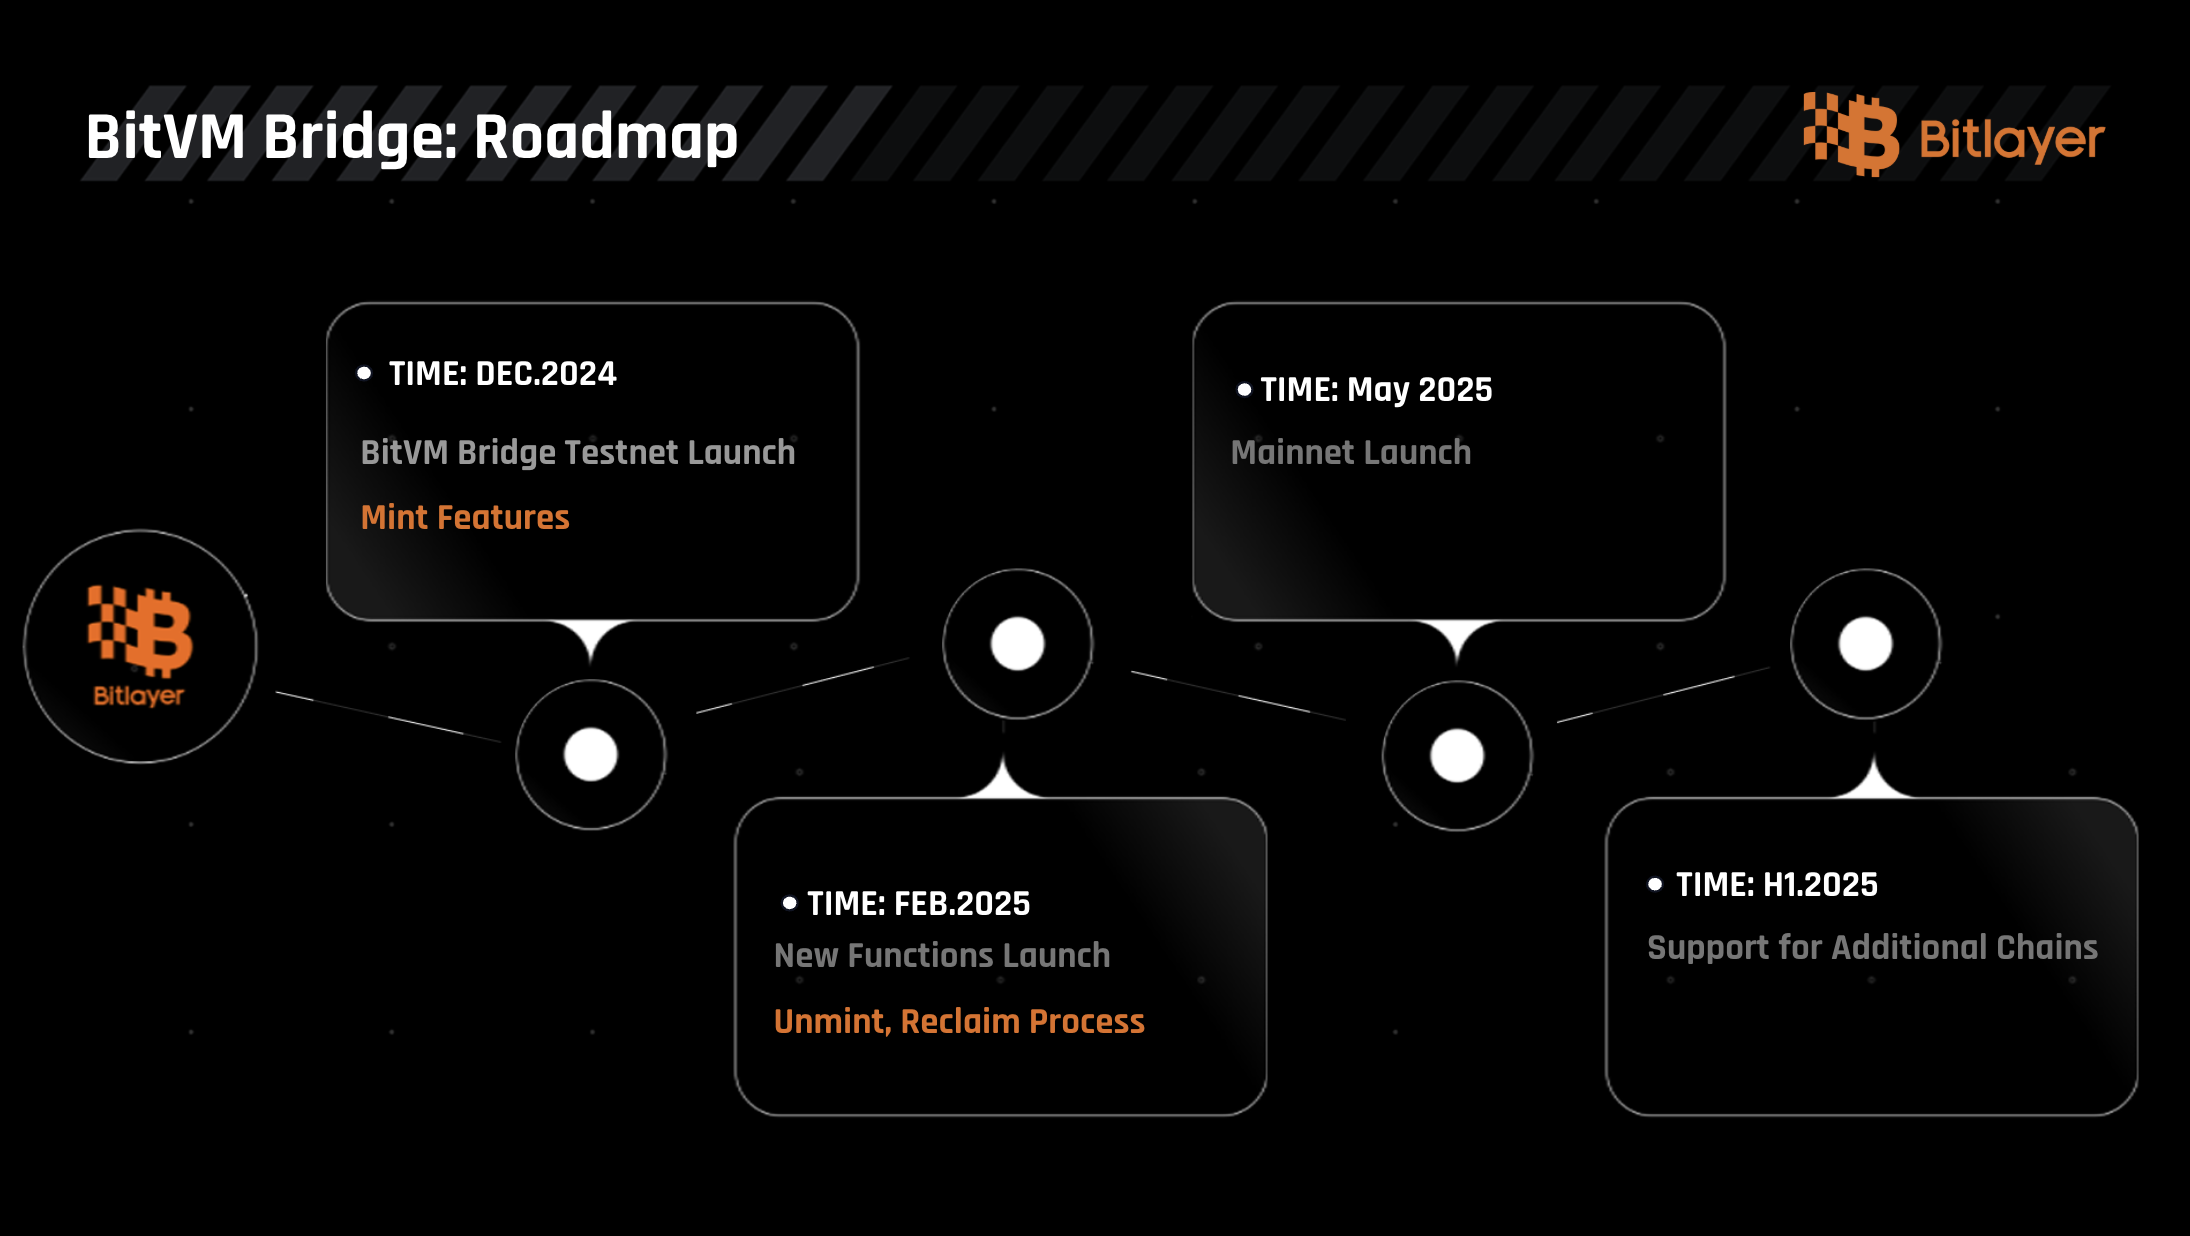
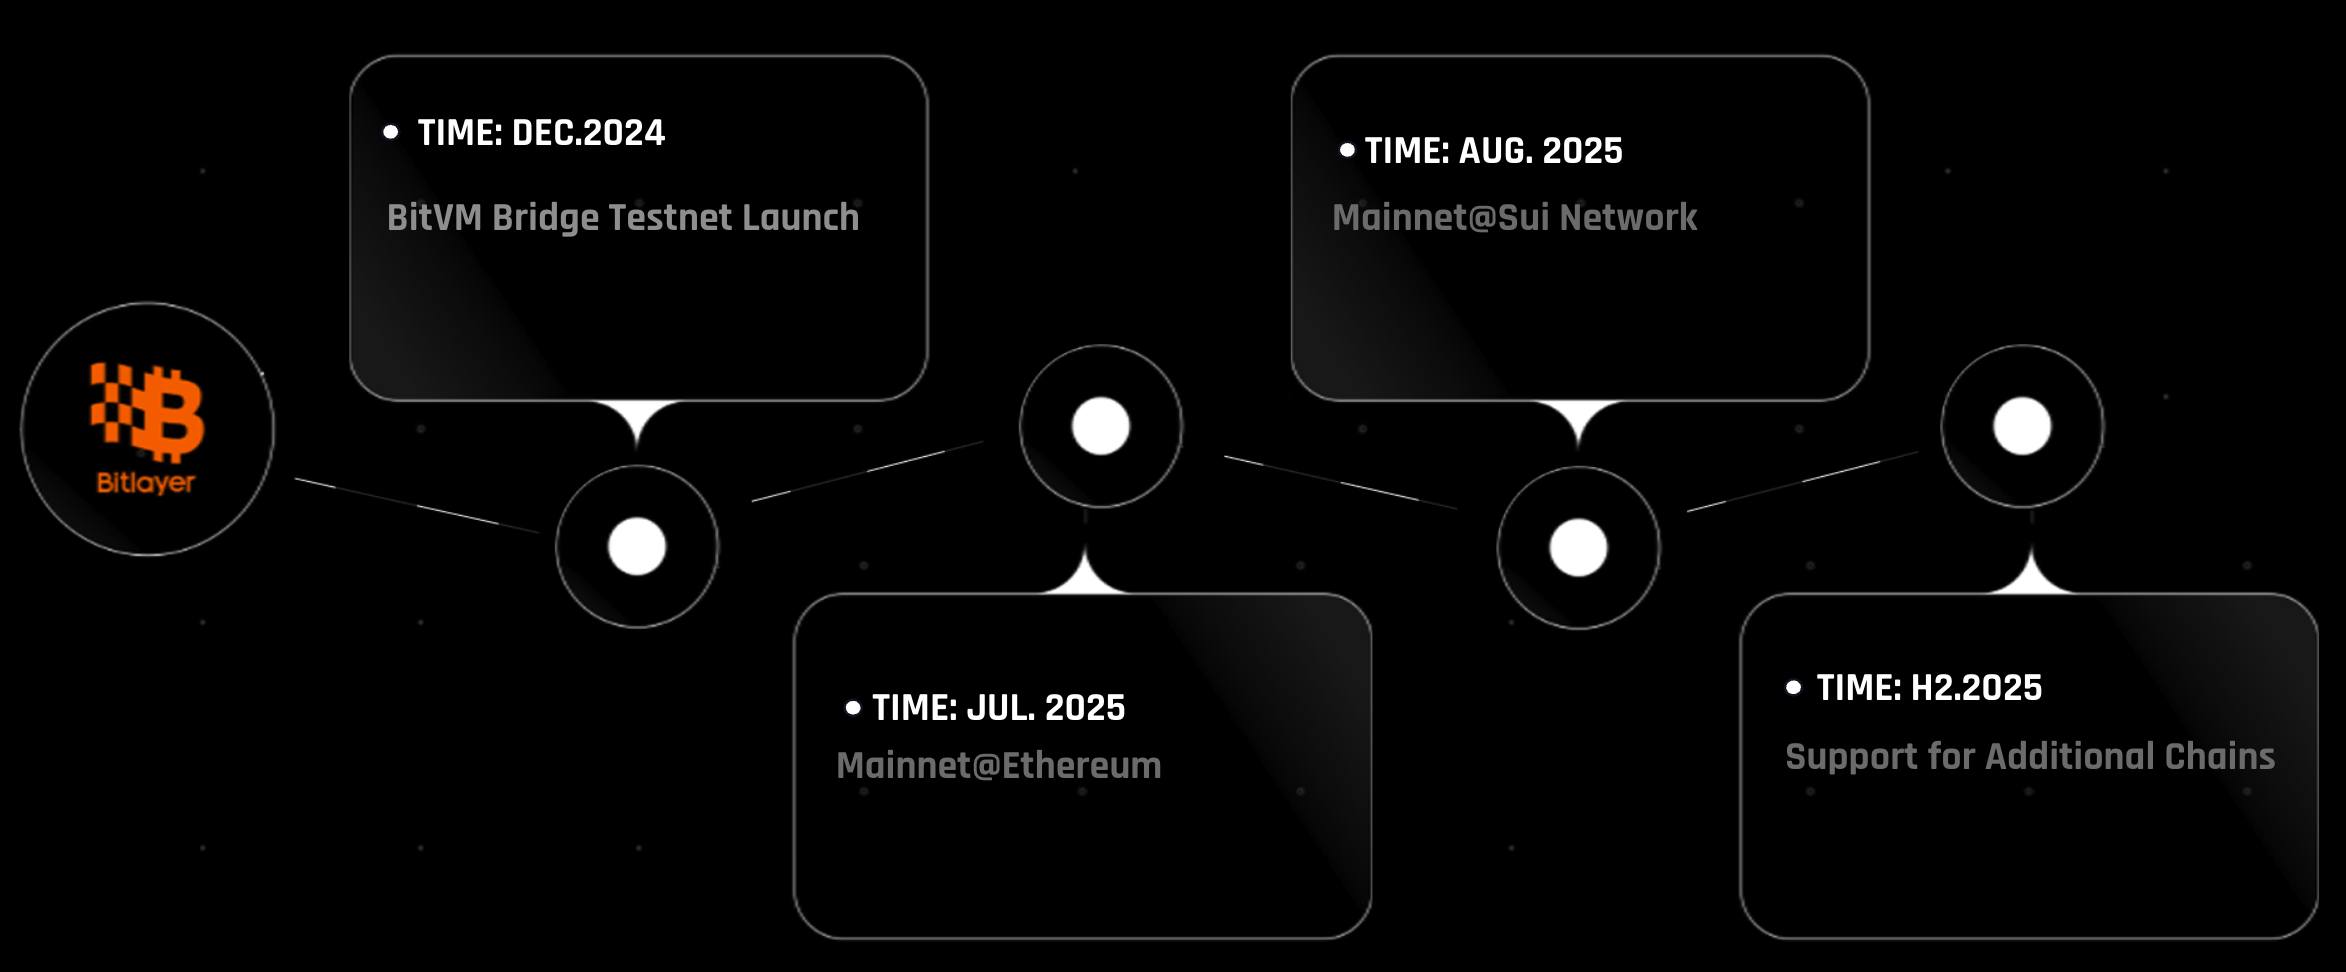
move YBTC introduction

diff --git a/docs/YBTCFamily/YBTC/introducing-ybtc.md b/docs/YBTCFamily/YBTC/introducing-ybtc.md
@@ -1,0 +1,40 @@
+---
+sidebar_position: 1
+---
+
+# Introducing YBTC
+
+YBTC is a trust-minimized bridged Bitcoin engineered for maximum security, serving as the core asset in Bitlayer's Bitcoin DeFi roadmap.
+
+- **Trust-Minimized Minting**: YBTC can only be minted through the official [Bitlayer BitVM Bridge](https://bitvmbridge.bitlayer.org/home). This bridge is built on the BitVM2 paradigm, inheriting its trust-minimized properties.
+- **Native Multi-Chain Asset**: Leveraging the bridge's advanced architecture, YBTC is designed as a multi-chain asset. Support begins with Ethereum and will expand to other blockchains, including:
+  - **Layer 1s**: Cardano, Sui, Plume, Sonic, Solana, and more.
+  - **Layer 2s**: Bitlayer Network, Base, Arbitrum, Starknet, and others.
+- **DeFi Ready**: As an ERC-20 compliant token, YBTC integrates seamlessly into the vast ecosystem of decentralized applications (DeFi).
+
+![YBTC](/img/BitvmBridge/introduction/yield.png)
+
+## The Security of YBTC
+
+YBTC’s design establishes it as one of the most secure bridged Bitcoin assets available. Its integrity is not based on trusting a centralized custodian but on a verifiable, trust-minimized system.
+
+The underlying BTC is locked in a BitVM-style smart contract on the Bitcoin network. The rules for withdrawal are predefined within a pre-signed transaction graph, making the process transparent and predictable. This system is secured by a set of attesters, and thanks to the cryptographic design, collusion to steal the locked BTC is prevented as long as at least one attester remains honest.
+
+This robust mechanism maintains a **strict 1:1 peg with BTC**. A unit of BTC can only be withdrawn from the smart contract after a corresponding YBTC token has been burned on its respective chain, guaranteeing that every YBTC in circulation is fully backed.
+
+## YBTC for Users
+
+Bitlayer and its partners are building a robust, YBTC-centric yield market. YBTC holders can participate in a variety of DeFi applications to generate returns on their Bitcoin:
+
+- **Lending**: Use YBTC as collateral in lending protocols to borrow assets or earn interest.
+- **Decentralized Exchanges (DEXs)**: Provide liquidity or trade YBTC efficiently across decentralized markets.
+- **Staking**: Stake YBTC in supported protocols to earn rewards and contribute to network security.
+
+## YBTC for Applications
+
+YBTC offers significant advantages for developers and protocols building on-chain applications:
+
+1. **Reliable BTC Liquidity**: For applications that require dependable BTC liquidity without the counterparty risk or potential for de-pegging, YBTC is the ideal choice.
+2. **Multi-Chain Access**: By integrating YBTC, applications—especially those operating across multiple chains—can seamlessly tap into deep, multi-chain BTC liquidity from a single, secure asset.
+
+For more information or to connect with our team, join the official Bitlayer Telegram channel: [https://t.me/bitlayerofficial](https://t.me/bitlayerofficial)

diff --git a/docs/BitVMBridge/BBN/002-joining-bbn.md b/docs/BitVMBridge/BBN/002-joining-bbn.md
@@ -17,9 +17,9 @@ If you’re interested in getting involved, feel free to contact us via email at
 The BitVM Bridge Broker role can appeal to various entities for different purposes. Below are some examples of how participants might engage as Brokers:
 
 - Type 1: Providing Liquidity Services to End Users
-     You might operate as a Broker to generate revenue by servicing the peg-out requests of end-users and charging transaction fees.
+    You might operate as a Broker to generate revenue by servicing the peg-out requests of end-users and charging transaction fees.
 - Type 2: Supporting Your Business Operations
-     You might operate as a Broker if you run a business (such as DeFi protocols or other services) that integrates YBTC (a highly secure bridged BTC asset) and you require the BitVM Bridge to balance your BTC/YBTC positions. The flexible peg-out feature of the Bitlayer BitVM Bridge allows participants with such needs to achieve this cost-effectively.
+    You might operate as a Broker if you run a business (such as DeFi protocols or other services) that integrates YBTC and you require the BitVM Bridge to balance your BTC/YBTC positions. The flexible peg-out feature of the Bitlayer BitVM Bridge allows participants with such needs to achieve this cost-effectively.
 
 Regardless of the specific motivation, all prospective Brokers must meet the following requirements:
 
@@ -31,13 +31,13 @@ Regardless of the specific motivation, all prospective Brokers must meet the fol
 
 2. Long-Term Collateral:
 
-     All brokers are required to provide long-term liquidity as collateral. A minimum of 0.5 BTC is necessary to participate in a single bridge instance.
+     All brokers are required to provide long-term liquidity as collateral. A certain amount (denoted as `minimum_collateral_per_reclaim`) of BTC is necessary to participate in a single bridge instance.
 
      Note: This collateral will be refunded once the corresponding bridge funds are reclaimed. The duration for this refund depends on the timing of user requests and the reclaim process.
 
 3. Short-Term Liquidity (Especially for User-Facing Services):
 
-     Brokers, particularly those aiming to provide liquidity services to end-users (as in Example 1), will need readily available short-term liquidity to front peg-out requests. A minimum of 2 BTC is recommended for this purpose.
+     Brokers, particularly those aiming to provide liquidity services to end-users (as in Type 1), will need readily available short-term liquidity to front peg-out requests. A minimum of 2 BTC is recommended for this purpose.
 
      Note: This liquidity will be reclaimed from the BitVM smart contract after the broker has fronted the peg-out request. The typical duration for this reclaim is the challenge window, which is generally one week.
 

diff --git a/docs/BitVMBridge/BBN/001-understanding-bbn.md b/docs/BitVMBridge/BBN/001-understanding-bbn.md
@@ -40,11 +40,11 @@ A key example is the **BitVM Coordinator**, a protocol contract that plays a cru
 
 A primary function of the BitVM Coordinator is to manage the **attesting committee** for each new BitVM smart contract. This committee is a group of nodes that pre-signs the transaction graph. The Coordinator streamlines this process by:
 
-1. **Electing the Pre-Signing Committee:** For each new contract, the Coordinator selects committee members from a pool of trusted and eligible candidates.
+1. **Electing the Attesting Committee:** For each new contract, the Coordinator selects committee members from a pool of trusted and eligible candidates.
 2. **Implementing Incentives:** To ensure liveness and discourage malicious behavior, the Coordinator manages an incentive structure. Honest committee members are rewarded for their participation, while malicious actors are penalized through slashing.
 3. **Coordinating Signatures:** Once the committee is formed, the Coordinator orchestrates the signing process to ensure all members contribute their signatures in a timely and coordinated manner.
 
-To leverage this functionality, applications must run an **attester node**. For example, a BitVM bridge requires its attester node to verify the format of each transaction in the graph, sign it, and submit the signature to the Coordinator.
+To leverage this functionality, applications must run their own **attester node**. For example, a BitVM bridge requires its attester node to verify the format of each transaction in the graph, sign it, and submit the signature to the Coordinator.
 
 ### Watcher Coordination
 

diff --git a/docs/BitVMBridge/Multi-Chain/002-integrating-target-chain.md b/docs/BitVMBridge/Multi-Chain/002-integrating-target-chain.md
@@ -8,7 +8,7 @@ slug: integrating-target-chain
 
 ## Introduction to Bitlayer's BitVM Bridge
 
-Bitlayer's BitVM Bridge is a cutting-edge solution designed to facilitate the movement of Bitcoin assets to a diverse array of blockchain ecosystems. This interoperability unlocks a multitude of decentralized finance (DeFi) and yielding opportunities for Bitcoin holders. The bridge supports a multi-chain architecture, encompassing both Layer 1 (L1) blockchains such as Ethereum, Cardano, Sui, Plume, Sonic SVM, and Solana, as well as Layer 2 (L2) solutions including Bitlayer Network, Base, Arbitrum, and Starknet, among others.
+Bitlayer's BitVM Bridge is a cutting-edge solution designed to facilitate the movement of Bitcoin assets to a diverse array of blockchain ecosystems. This interoperability unlocks a multitude of decentralized finance (DeFi) and yielding opportunities for Bitcoin holders. The bridge supports a multi-chain architecture, encompassing both Layer 1 (L1) blockchains such as Ethereum, Cardano, Sui, Plume, Sonic, and Solana, as well as Layer 2 (L2) solutions including Bitlayer Network, Base, Arbitrum, and Starknet, among others.
 
 The core strength of the BitVM Bridge lies in its extensible design, which simplifies the process of integrating new target chains. This document provides a comprehensive guide for developers from the Bitlayer community who wish to extend the bridge's capabilities by adding support for a new target blockchain.
 

diff --git a/docs/BitVMBridge/BBN/003-bbn-governance.md b/docs/BitVMBridge/BBN/003-bbn-governance.md
@@ -12,7 +12,7 @@ The governance of the BitVM Bridge Network will be centered around the **Bitlaye
 
 **Key Features:**
 
-- **Governance Platform:** The core governance smart contracts will be deployed on the **Bitlayer Network** (the L2 scaling solution for Bitcoin). You can find more information about Bitlayer Network at [https://www.bitlayer.org/](https://www.bitlayer.org/).
+- **Governance Platform:** The core governance smart contracts will be deployed on the **Bitlayer Network**. You can find more information about Bitlayer Network at [https://www.bitlayer.org/](https://www.bitlayer.org/).
 - **Membership:** Any individual or entity holding a specified minimum amount of BTR tokens will be eligible to participate as a governance member. The exact threshold will be defined in the forthcoming governance framework.
 - **Proposal Submission:** Any eligible governance member can create new proposals and initiate the voting process.
 - **Discussion Forum:** A dedicated governance forum (currently under construction) will serve as the primary platform for discussing proposals, debating ideas, and fostering community consensus before formal voting.

diff --git a/docs/YBTCFamily/bl_btc_overview.md b/docs/YBTCFamily/bl_btc_overview.md
@@ -5,7 +5,7 @@ sidebar_label: Bitlayer Native BTC
 
 # Bitlayer Native BTC Asset: Overview & Technical Characteristics
 
-**Bitlayer Native BTC** is a natively integrated, Bitcoin-pegged asset that exists directly at the protocol level within the Bitlayer Layer 2 blockchain. Unlike traditional ERC-20-style wrapped tokens, this asset is implemented as a first-class system currency—akin to ETH on Ethereum or BTC on the Bitcoin mainnet.
+**Bitlayer Native BTC** is a natively integrated, Bitcoin-pegged asset that exists directly at the protocol level within the Bitlayer Network. Unlike traditional ERC-20-style wrapped tokens, this asset is implemented as a first-class system currency—akin to ETH on Ethereum or BTC on the Bitcoin mainnet.
 
 It serves two primary purposes:
 

diff --git a/docs/YBTCFamily/ybtc_family.md b/docs/YBTCFamily/ybtc_family.md
@@ -1,0 +1,10 @@
+---
+sidebar_position: 1
+sidebar_label: YBTC Family
+---
+
+# The YBTC Family
+
+- **Bitlayer Native BTC**: The native, Bitcoin-pegged asset for Bitlayer Network V1. It is integrated directly at the protocol level, functioning as a first-class system currency similar to ETH on Ethereum or BTC on the Bitcoin mainnet, rather than as a traditional ERC-20-style token.
+- **YBTC.B**: A wrapped token representation of Bitlayer Native BTC.
+- **YBTC**: A next-generation, trust-minimized Bitcoin-pegged asset. Positioned as the future of Bitcoin within the DeFi ecosystem, YBTC is slated to become the native currency for the upcoming Bitlayer Network V2 and V3 upgrades.

diff --git a/docs/BitVMBridge/Concepts/098-roadmap.md b/docs/BitVMBridge/Concepts/098-roadmap.md
@@ -5,7 +5,7 @@ slug: roadmap
 
 # Roadmap
 
-![Roadmap](/img/BitvmBridge/introduction/roadmap1.png)
+![Roadmap](/img/BitvmBridge/introduction/roadmap.png)
 
 ## **DEC.2024**
 
@@ -19,8 +19,9 @@ slug: roadmap
 
 ## **July 2025**
 
-- Mainnet Beta Launch
+- Mainnet Beta Launch (Ethereum)
 
 ## **H2. 2025**
 
-- Support for Additional Chains
+- Mainnet Launch (SUI)
+- Support more Blockchains
